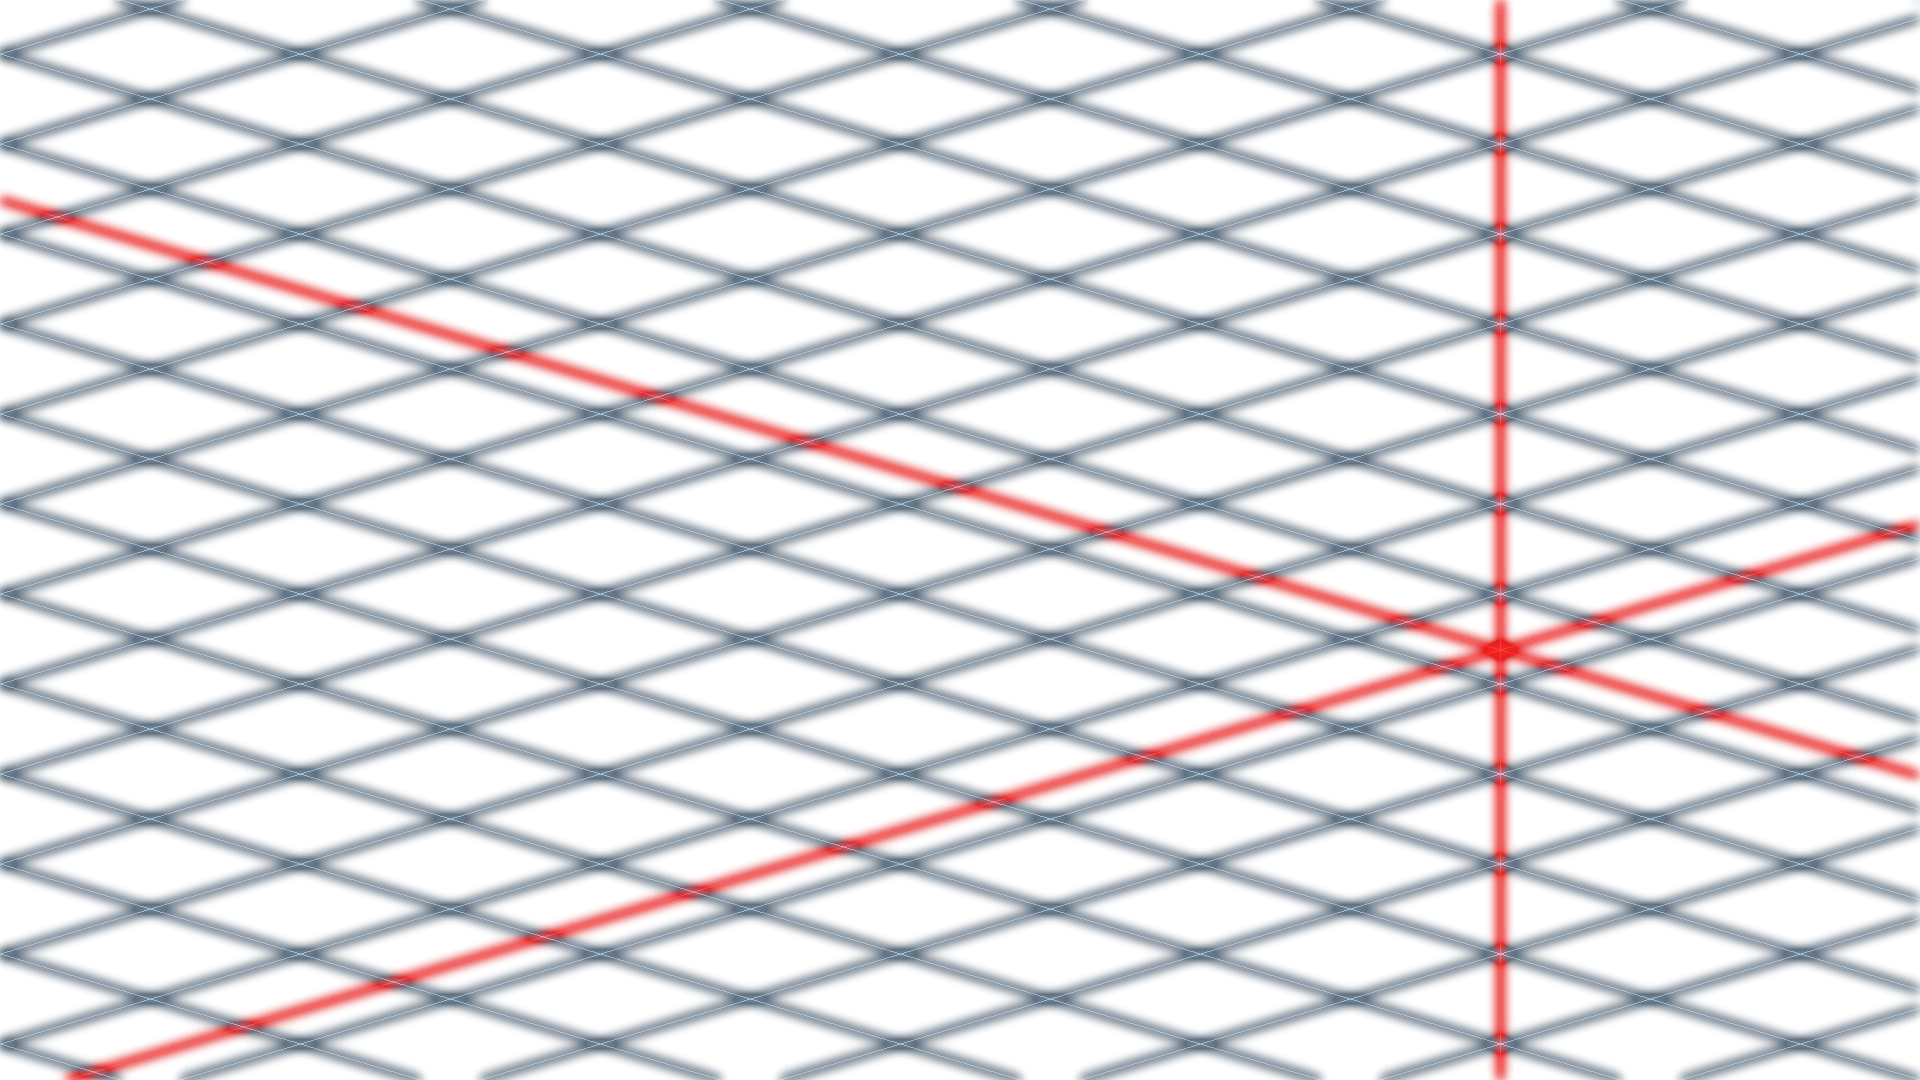
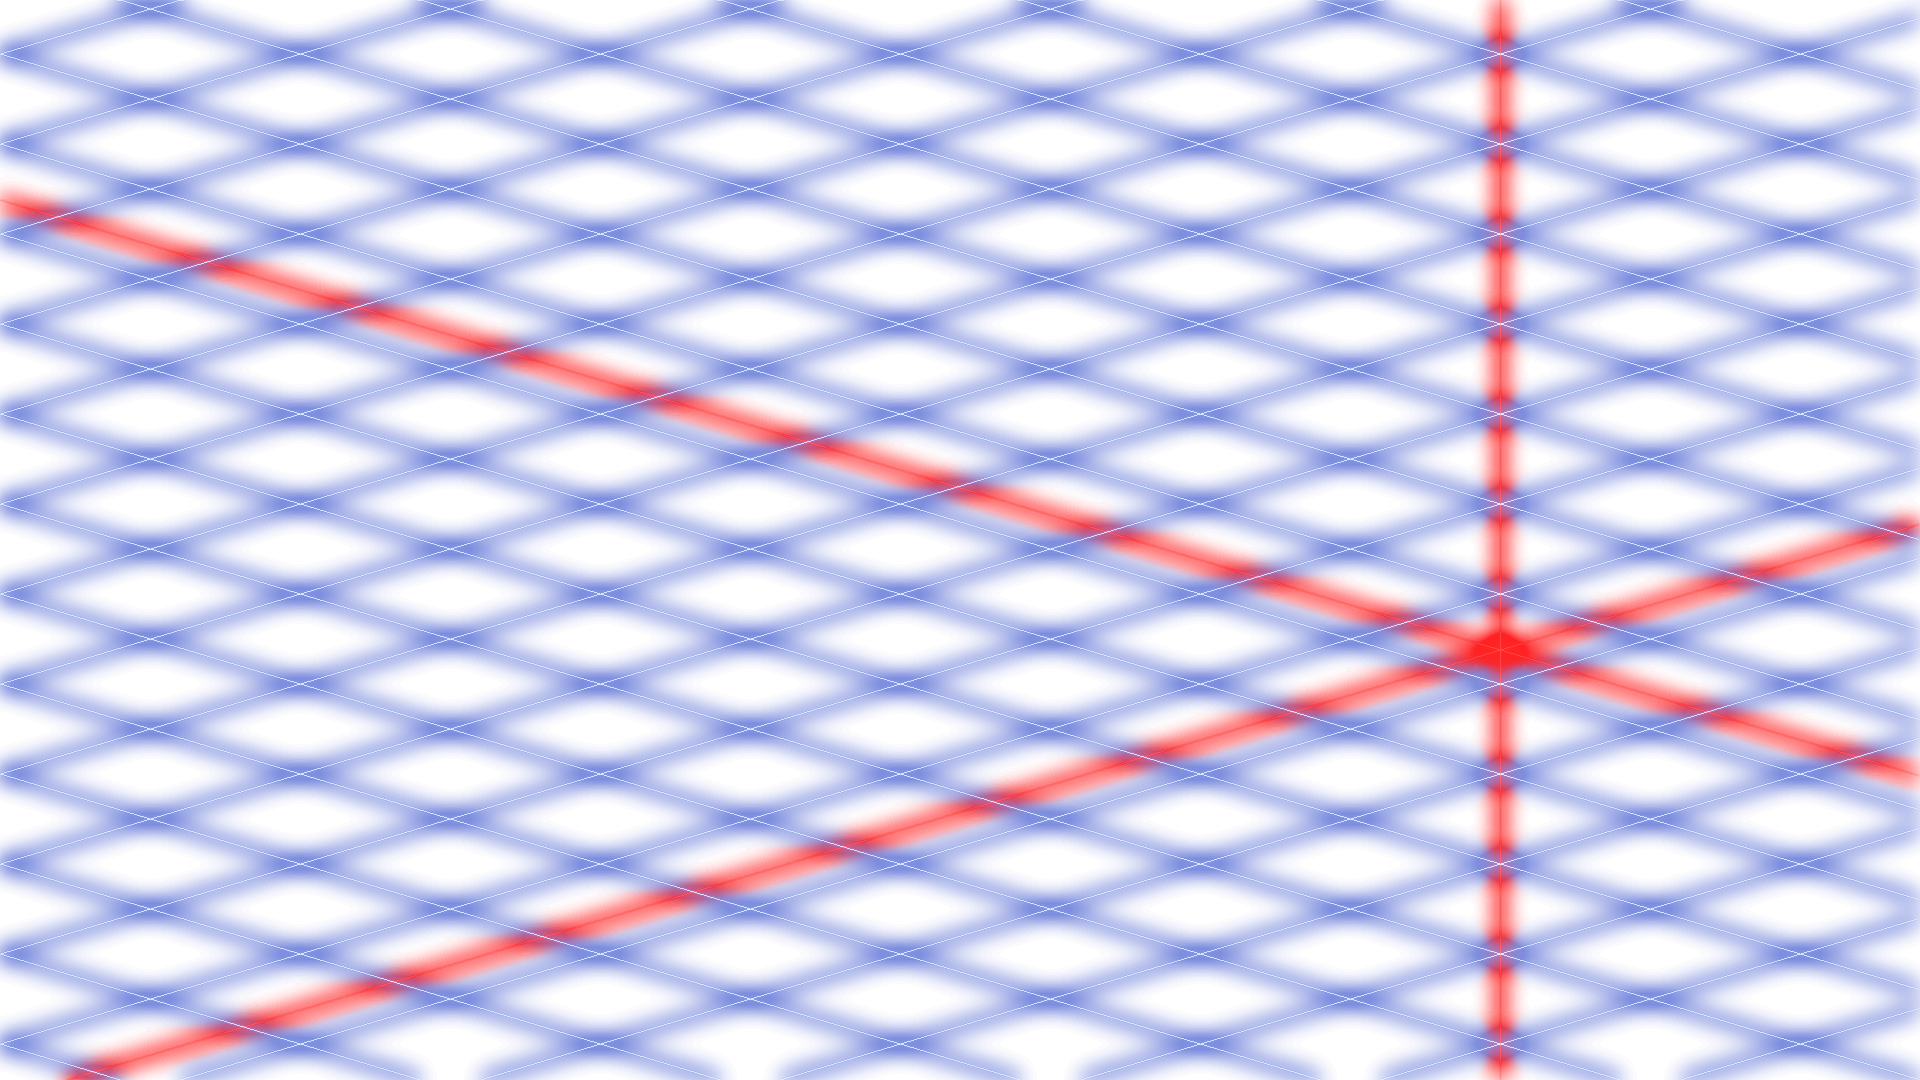
minor refactor and calibrated values

diff --git a/Noise/Source.cpp b/Noise/Source.cpp
@@ -24,20 +24,23 @@ double* calculate_distances(int x, int y, sf::Vector2i* points, int num_points) 
 
 void worley_noise(sf::Uint8* pixels);
 
-void lines(sf::Uint8* pixels);
+void lines(sf::Uint8* pixels, sf::Uint8* primary, sf::Uint8* accent);
 
-void graph_lines(sf::Uint8* pixels);
+void graph_lines(sf::Uint8* pixels, sf::Uint8* primary, sf::Uint8* accent);
 
-void sin_storm(sf::Uint8* pixels);
+void sin_storm(sf::Uint8* pixels, sf::Uint8* primary, sf::Uint8* accent);
 
-void haze(sf::Uint8* pixels);
+void haze(sf::Uint8* pixels, int radius, double intensity, double dispersion);
 
-void sin_wave(sf::Uint8* pixels);
+void sin_wave(sf::Uint8* pixels, sf::Uint8* primary, sf::Uint8* accent);
 
 
 int main() {
 
-	int what = 3;
+	int what = 1;
+	sf::Uint8 primary[] = { 172 * 2/ 3, 197* 2 / 3, 218, 255 };
+	sf::Uint8 accent[] = { 255, 26, 26, 255 };
+
 	bool once = true;
 
 	sf::Image image;
@@ -99,18 +102,22 @@ int main() {
 				worley_noise(pixels);
 				break;
 			case 1:
-				lines(pixels);
+				lines(pixels, primary, accent);
+				haze(pixels, 30, 5, 4);
 				break;
 			case 2:
-				graph_lines(pixels);
+				graph_lines(pixels, primary, accent);
+				haze(pixels, 30, 15, 4);
 				break;
 			case 3:
-				sin_storm(pixels);
+				sin_storm(pixels, primary, accent);
+				haze(pixels, 30, 15, 4);
 				break;
 			case 4:
-				sin_wave(pixels);
-				break;	}
-			haze(pixels);
+				sin_wave(pixels, primary, accent);
+				haze(pixels, 30, 5, 4);
+				break;	
+			}
 			once = false;
 			image.create(width, height, pixels);
 
@@ -283,9 +290,8 @@ void worley_noise(sf::Uint8* pixels) {
 	}
 }
 
-void lines(sf::Uint8* pixels) {
-	sf::Uint8 blue[] = { 78, 94, 109, 255 };
-	sf::Uint8 accent[] = { 225, 20, 20, 255 };
+void lines(sf::Uint8* pixels, sf::Uint8* primary, sf::Uint8* accent) {
+
 	double angle = 0.3;
 
 	double ca = 200;
@@ -297,14 +303,13 @@ void lines(sf::Uint8* pixels) {
 	draw_vertical_line(pixels, cross[0], accent);
 
 	for (double i = -angle * (double)(width); i < (angle + 1) * (double)(width); i += 90) {
-		draw_line(pixels, angle, i, blue);
-		draw_line(pixels, -angle, i, blue);
+		draw_line(pixels, angle, i, primary);
+		draw_line(pixels, -angle, i, primary);
 	}
 }
 
-void graph_lines(sf::Uint8* pixels) {
-	sf::Uint8 blue[] = { 78, 94, 109, 255 };
-	sf::Uint8 accent[] = { 225, 20, 20, 255 };
+void graph_lines(sf::Uint8* pixels, sf::Uint8* primary, sf::Uint8* accent) {
+
 	double angle = 0.3;
 
 	double ca = 200;
@@ -316,21 +321,20 @@ void graph_lines(sf::Uint8* pixels) {
 	draw_vertical_line(pixels, cross[0], accent);
 
 	for (double i = -angle * (double)(width); i < (angle + 1) * (double)(width); i += 5) {
-		blue[3] = 255 * pow((1 - abs( sin(i / 3.14159 / 15)) / 5), 4);
-		draw_line(pixels, angle, i, blue);
-		draw_line(pixels, -angle, i, blue);
+		primary[3] = 255 * pow((1 - abs( sin(i / 3.14159 / 15)) / 5), 4);
+		draw_line(pixels, angle, i, primary);
+		draw_line(pixels, -angle, i, primary);
 	}
 }
 
-void sin_storm(sf::Uint8* pixels) {
-	sf::Uint8 blue[] = { 78, 94, 109, 255 };
-	sf::Uint8 accent[] = { 225, 20, 20, 255 };
+void sin_storm(sf::Uint8* pixels, sf::Uint8* primary, sf::Uint8* accent) {
+
 	std::srand(std::time(nullptr));
 	for (int wave = 0; wave < 10; wave++) {
 		double freq_shift = (double)(std::rand() % 100) / 75;
 		double faze_shift = (double)(std::rand() % 100) / (3.14159 * 100);
 		int prev_y = height / 2;
-		sf::Uint8* color = blue;
+		sf::Uint8* color = primary;
 		if (wave == 8) {
 			color = accent;
 		}
@@ -343,7 +347,7 @@ void sin_storm(sf::Uint8* pixels) {
 	
 }
 
-void haze(sf::Uint8* pixels) {
+void haze(sf::Uint8* pixels, int radius, double intensity, double dispersion) {
 	auto* buffer = new double[width * height * 4];
 
 	auto* light_counter = new double[width * height];
@@ -356,9 +360,6 @@ void haze(sf::Uint8* pixels) {
 	for (int i = 0; i < width * height; i++) {
 		light_counter[i] = 0;
 	}
-	int radius = 100;
-	double intensity = 8;
-	double dispersion = 6;
 
 	for (int x = 0; x < width; x++) {
 		for (int y = 0; y < height; y++) {
@@ -370,7 +371,7 @@ void haze(sf::Uint8* pixels) {
 							int target = coord_to_index(xd, yd);
 
 							double dist = distance(x, y, xd, yd);
-							double drop_off_factor = intensity * 0.01 * (pow(3, -0.03 / dispersion * pow(dist, 2)) + pow(6, -pow(dist, 2)));
+							double drop_off_factor = intensity * 0.05 * ( 0.02 * pow(3, -0.03 / dispersion * pow(dist, 2)) + pow(6, -pow(dist, 2)));
 
 							light_counter[target / 4] += drop_off_factor;
 
@@ -403,13 +404,12 @@ void haze(sf::Uint8* pixels) {
 	delete[] light_counter;
 }
 
-void sin_wave(sf::Uint8* pixels) {
-	sf::Uint8 blue[] = { 172, 197, 218, 255 }; //{ 119, 147, 175, 255 };
-	sf::Uint8 accent[] = { 255, 26, 26, 255 };
+void sin_wave(sf::Uint8* pixels, sf::Uint8* primary, sf::Uint8* accent) {
+	
 	int waves = 30;
 	for (int wave = -waves; wave < waves; wave++) {
 		int prev_y = height / 2;
-		sf::Uint8* color = blue;
+		sf::Uint8* color = primary;
 		if (wave == -waves / 2) {
 			color = accent;
 		}
